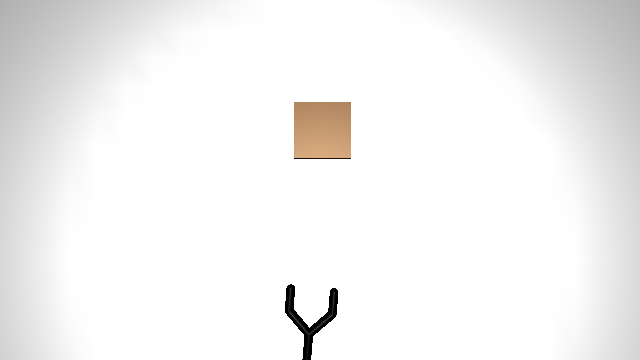
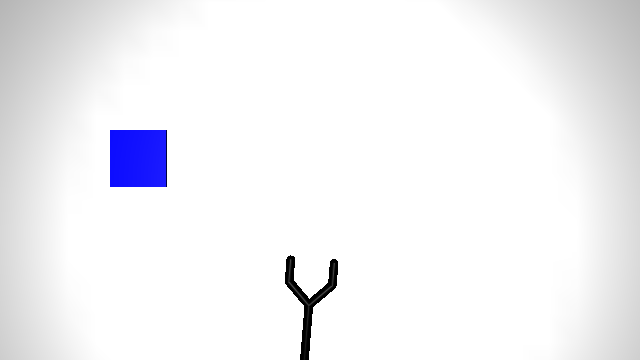
Update:02-April-2020

Changed region(s): [[0.4375, 0.275, 0.5625, 0.4583], [0.1562, 0.3361, 0.2812, 0.5194], [0.4375, 0.7028, 0.5312, 1.0]]

diff --git a/S2l/Thesis_Ch3/Exp1_reach3dof/reach7dof_train_proposed_thesis_reward_eval.py b/S2l/Thesis_Ch3/Exp1_reach3dof/reach7dof_train_proposed_thesis_reward_eval.py
@@ -48,15 +48,23 @@ feature_size=4608
 
 switch=int(sys.argv[3])
 if(switch==0):
-    base_dir='/home/ironman2/Observation-Learning-Simulations/S2l/Thesis_Ch3/Exp1_reach3dof/Results/Reward_Eval/rewardmap_baseline/'
+    base_dir='/home/ironman2/Observation-Learning-Simulations/S2l/Thesis_Ch3/Exp1_reach3dof/Results/Reward_Eval/rewardmap_misc/'
 elif (switch==1):
     base_dir='/home/ironman2/Observation-Learning-Simulations/S2l/Thesis_Ch3/Exp1_reach3dof/Results/Reward_Eval/rewardmap_3Dview1/'
 elif (switch==2):
     base_dir='/home/ironman2/Observation-Learning-Simulations/S2l/Thesis_Ch3/Exp1_reach3dof/Results/Reward_Eval/rewardmap_3Dview2/'
 elif (switch==3):
-    base_dir='/home/ironman2/Observation-Learning-Simulations/S2l/Thesis_Ch3/Exp1_reach3dof/Results/Reward_Eval/rewardmap_targetpos1/'
+    base_dir='/home/ironman2/Observation-Learning-Simulations/S2l/Thesis_Ch3/Exp1_reach3dof/Results/Reward_Eval/Target_pos1_diff/'
+    demo_folder='./Demos/demo_reach_0deg_new/' 
 elif (switch==4):
-    base_dir='/home/ironman2/Observation-Learning-Simulations/S2l/Thesis_Ch3/Exp1_reach3dof/Results/Reward_Eval/rewardmap_targetpos2/'
+    base_dir='/home/ironman2/Observation-Learning-Simulations/S2l/Thesis_Ch3/Exp1_reach3dof/Results/Reward_Eval/Target_pos2_diff/'
+    demo_folder='./Demos/demo_reach_0deg_new/' 
+elif (switch==5):
+    base_dir='/home/ironman2/Observation-Learning-Simulations/S2l/Thesis_Ch3/Exp1_reach3dof/Results/Reward_Eval/multi_target_close/'
+    demo_folder='./Demos/demo_reach_0deg_new/' 
+elif (switch==6):
+    base_dir='/home/ironman2/Observation-Learning-Simulations/S2l/Thesis_Ch3/Exp1_reach3dof/Results/Reward_Eval/multi_target_far/'
+    demo_folder='./Demos/demo_reach_0deg_new/' 
 elif (switch==-2):
     base_dir='/home/ironman2/Observation-Learning-Simulations/S2l/Thesis_Ch3/Exp1_reach3dof/Results/Reward_Eval/rewardmap_V2/'
 elif (switch==-4):
@@ -164,7 +172,7 @@ def sampling_obs(vid_robo_all,num_frames_per_clip=cluster_length):
 class Vid_Feature:
     
     def __init__(self):
-        self.saved_path='/home/ironman2/S2l_storage/trained_activity_nets_thesis/' 
+        self.saved_path='/home/ironman2/S2l_storage/' 
         self.network_name='activity_model.ckpt-67.meta'
         ### Activity_net
         self.g=tf.Graph()

diff --git a/S2l/Thesis_Ch3/Exp1_reach3dof/correlation_metric_val_graph.py b/S2l/Thesis_Ch3/Exp1_reach3dof/correlation_metric_val_graph.py
@@ -6,6 +6,7 @@
 import numpy as np
 import matplotlib.pyplot as plt
 import matplotlib
+import sys
 import matplotlib.pyplot as plt
 matplotlib.style.use('ggplot')
 
@@ -36,16 +37,20 @@ def corr_coef(filename_x,filename_y,i):
 
 
     plt.scatter(x_norm,y_new,color='red')
-    plt.hold(True)
 
     #-------------------------------------------------------------------------------------------------#
    
     return cor_coef
 
 
+run_a=sys.argv[1]
+run_b=sys.argv[2]
 
-filenames_x_array=["eval_metric_per_epispde_run_2.txt","eval_metric_per_epispde_run_7.txt"]
-filemames_y_array=["episode_reward_run_2.txt","episode_reward_run_7.txt"]
+filenames_x_array=["eval_metric_per_epispde_run_"+run_a+".txt","eval_metric_per_epispde_run_"+run_b+".txt"]
+filemames_y_array=["episode_reward_run_"+run_a+".txt","episode_reward_run_"+run_b+".txt"]
+print('Eval metric files:',filenames_x_array)
+print('Reward files:',filemames_y_array)
+
 corr_per_run=[]
 for i in range(len(filenames_x_array)):
     filename_x=filenames_x_array[i]

diff --git a/gym/envs/mujoco/pusher3dofreal.py b/gym/envs/mujoco/pusher3dofreal.py
@@ -18,6 +18,10 @@ class PusherEnv3DOFReal(mujoco_env.MujocoEnv, utils.EzPickle):
             mujoco_env.MujocoEnv.__init__(self, '3link_gripper_push_2d_real_exp1_reward_eval_targetpos_1.xml', 5, viewersize=(72*5, 128*5))
         elif(self.switch==4):
             mujoco_env.MujocoEnv.__init__(self, '3link_gripper_push_2d_real_exp1_reward_eval_targetpos_2.xml', 5, viewersize=(72*5, 128*5))
+        elif(self.switch==5):
+            mujoco_env.MujocoEnv.__init__(self, '3link_gripper_push_2d_real_exp1_reward_eval_multi_target_close.xml', 5, viewersize=(72*5, 128*5))
+        elif(self.switch==6):
+            mujoco_env.MujocoEnv.__init__(self, '3link_gripper_push_2d_real_exp1_reward_eval_multi_target_far.xml', 5, viewersize=(72*5, 128*5))
         elif(self.switch==-4):
             mujoco_env.MujocoEnv.__init__(self, '3link_gripper_push_2d_real_exp1_Obj2.xml', 5, viewersize=(72*5, 128*5))
         elif(self.switch==-5):

diff --git a/S2l/Thesis_Ch3/Exp1_reach3dof/gym_env_imager.py b/S2l/Thesis_Ch3/Exp1_reach3dof/gym_env_imager.py
@@ -3,9 +3,10 @@
 import gym
 import imageio
 import numpy as np
+import sys
 
 env = gym.make('Pusher3DOFReal-v1')
-env.switch=-4
+env.switch=int(sys.argv[1])
 env.initialize_env()
 env.reset()
 
